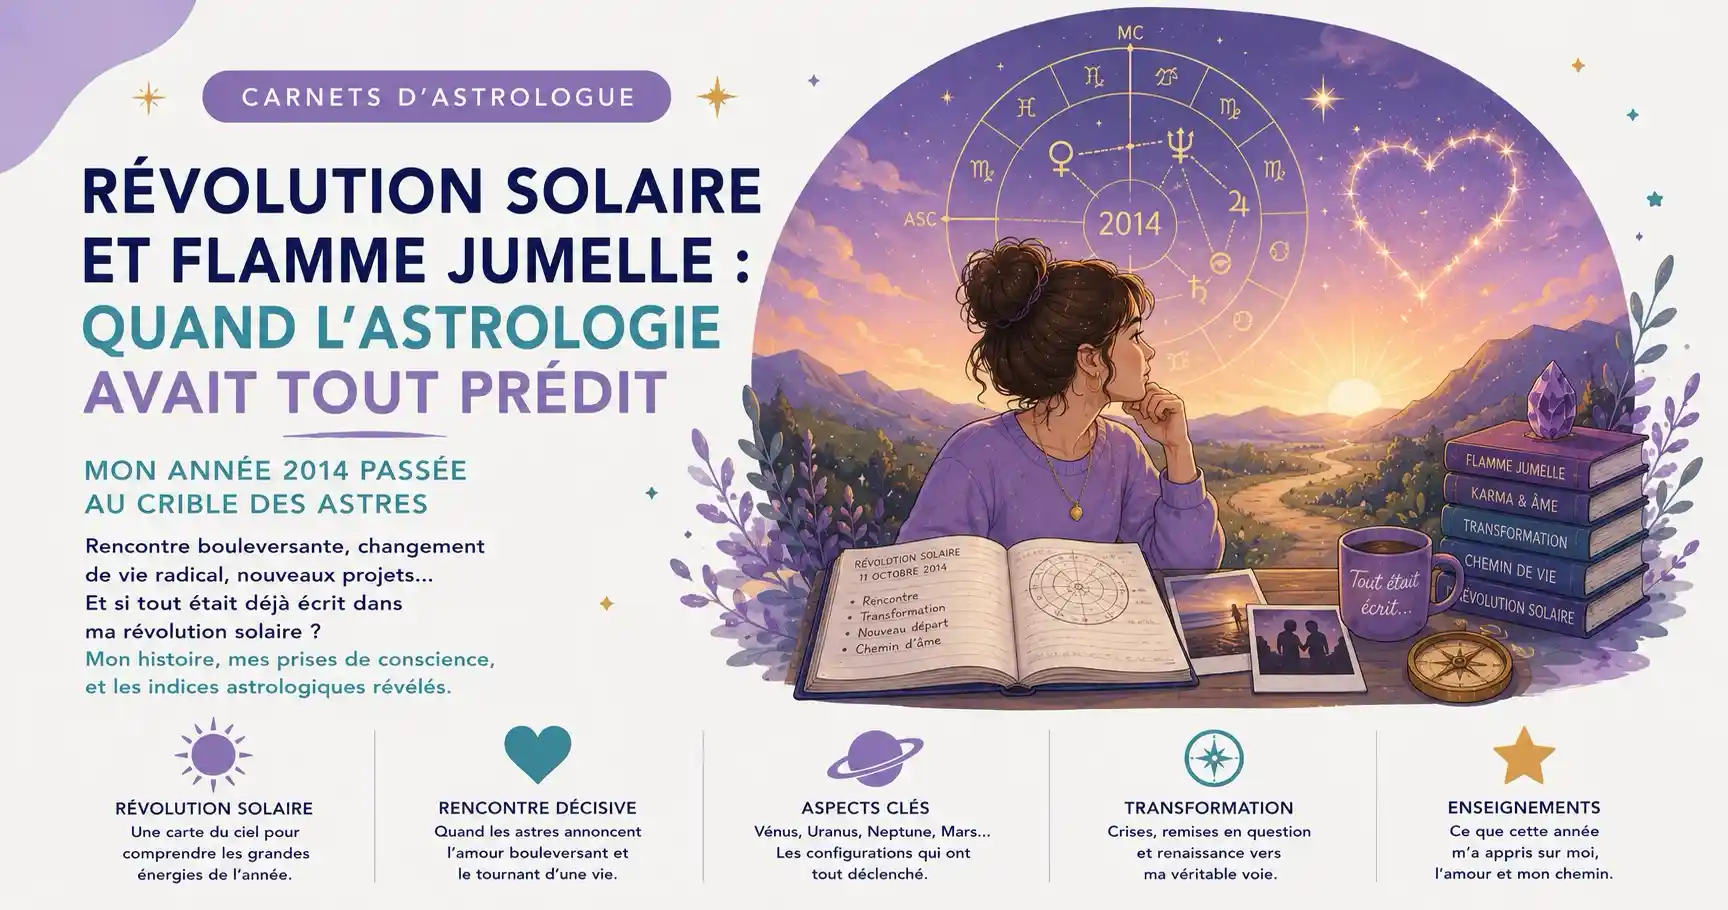
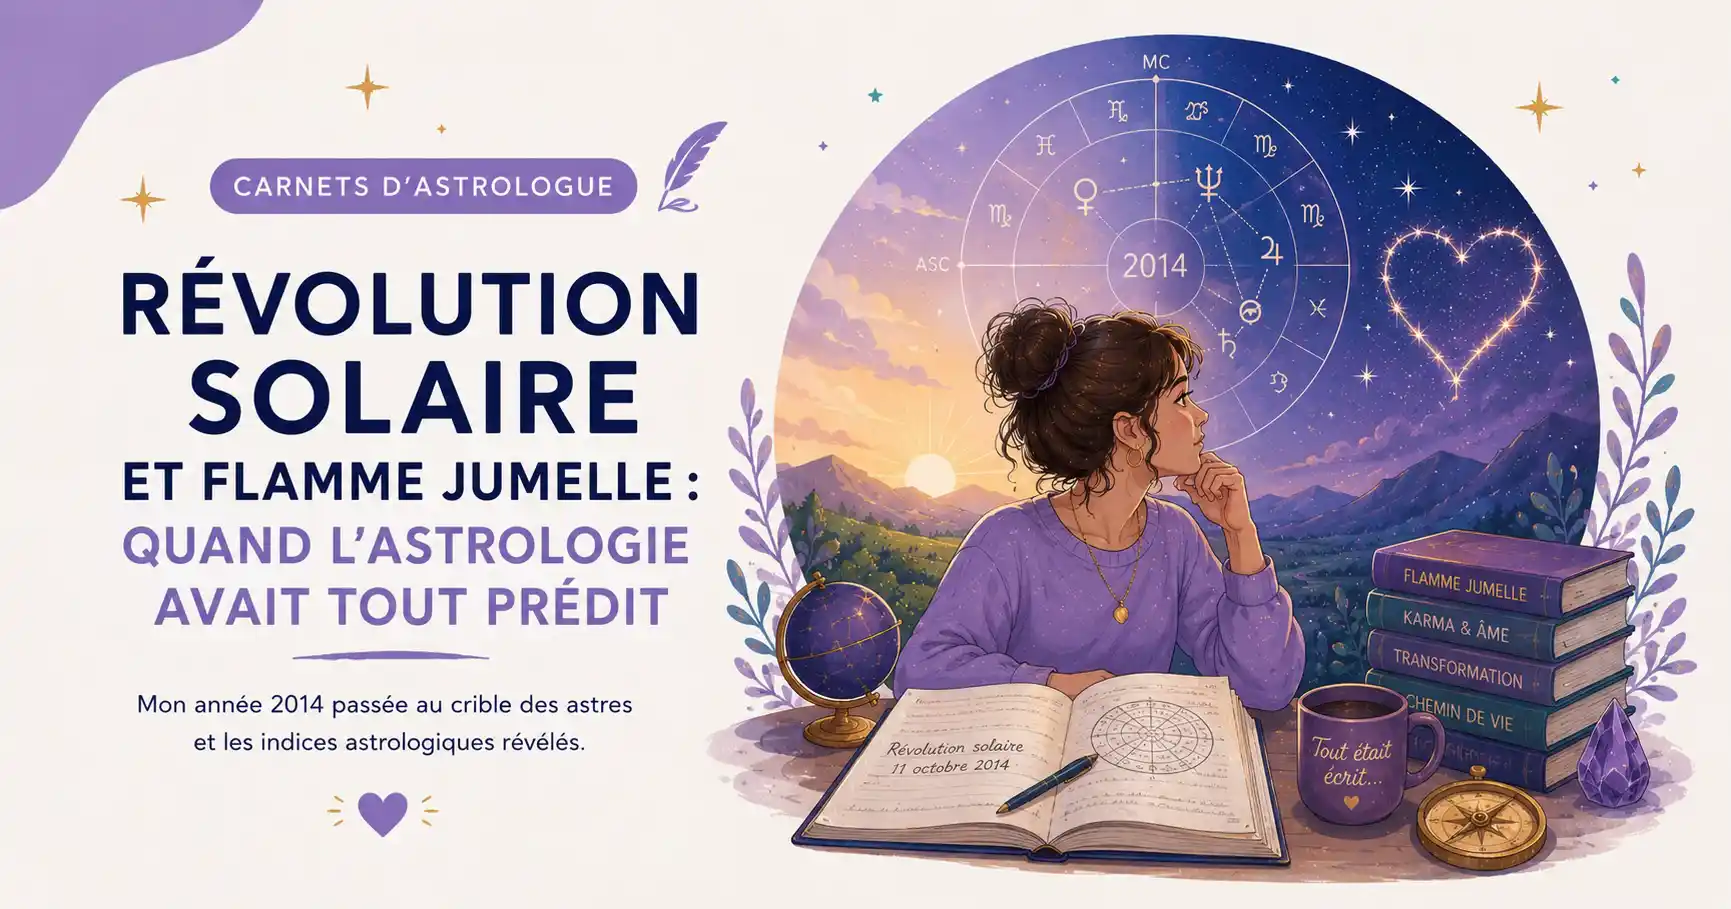
update

diff --git a/templates/blog/index.html b/templates/blog/index.html
@@ -333,12 +333,13 @@
     <!-- Filtres -->
     <div class="filters" id="filters">
         <button class="filter-btn active" data-cat="all">Tous les articles</button>
+        <button class="filter-btn" data-cat="bases">Les Bases ✍🏼</button>
         <button class="filter-btn" data-cat="signe">Signes ♈</button>
         <button class="filter-btn" data-cat="planete">Planètes ☽</button>
         <button class="filter-btn" data-cat="maison">Maisons 🏠</button>
         <button class="filter-btn" data-cat="karma">Karma ☊</button>
         <button class="filter-btn" data-cat="astropapote">Astropapote ✨</button>
-        <button class="filter-btn" data-cat="carnets">Carnets d'Astrologue ✨</button>
+        <button class="filter-btn" data-cat="carnets">Carnets d'Astrologue 📖</button>
     </div>
 
     <!-- Grille -->

diff --git a/routes/blog.py b/routes/blog.py
@@ -7,6 +7,7 @@ import yaml
 blog_bp = Blueprint("blog", __name__)
 
 CATEGORIES_MAP = {
+    "Les Bases": "base",
     "Signes astrologiques": "signe",
     "Planètes": "planete",
     "Maisons": "maison",

diff --git a/data/articles/monter-son-theme-a-la-main.md b/data/articles/monter-son-theme-a-la-main.md
@@ -1,0 +1,110 @@
+---
+title: "Calculer son thème astral à la main : le guide complet pas à pas"
+slug: "calculer-theme-astral-a-la-main"
+description: "Apprends à calculer ton thème astral à la main grâce à ce guide complet. Longitude, latitude, temps sidéral, table des maisons, éphémérides… découvre comment les astrologues construisaient un thème avant les logiciels."
+date: "2026-06-29"
+category: "Les Bases"
+image: "/static/blog/images/calculer-theme-astral-main.webp"
+image_alt: "Calcul manuel d'un thème astral avec table des maisons, éphémérides et cercle astrologique"
+---
+
+# Calculer son thème astral à la main : le guide (un peu old school, beaucoup passionnant)
+
+**Méta-description :** Comment calculer son thème astral à la main, étape par étape : longitude, latitude, temps sidéral, table des maisons et éphémérides. Le tout avec un compas et beaucoup de bonne volonté.
+
+C'est parti pour parler des Maisons Astrologiques.
+
+Déjà, d'où viennent ces maisons ? Qui les a construites ?! Quels sont les matériaux utilisés ?
+
+## Ce qu'il faut pour calculer son thème astral à la main
+
+Pour déterminer les maisons astrologiques, il nous faut connaître :
+
+- La longitude et la latitude du lieu de naissance
+- L'heure sidérale de cette naissance
+
+Ce qui va nous permettre de connaître la position de l'Ascendant — départ de tout. C'est ainsi qu'on va pouvoir construire notre petit lotissement ! Dans tout plan, il nous faut savoir où poser la première pierre. Eh eh.
+
+Tous les points de départ se font, en Astrologie, sur le moment où le Soleil franchit la ligne d'équateur pour pénétrer dans notre hémisphère. Ce franchissement se fait sur le point de rencontre de la courbe écliptique solaire et de l'équateur terrestre.
+
+---
+
+## Étape 1 — Trouver la longitude et la latitude du lieu de naissance
+
+C'est pour ça qu'on demande la ville pour définir ces données.
+
+Bon, je me sers tout de même d'Internet pour avoir mes infos. Donc latitude et longitude de Chalon-sur-Saône, là où je suis née :
+
+- **Latitude :** 46.780764
+- **Longitude :** 4.853947
+
+Vous pouvez trouver les coordonnées de votre ville de naissance facilement via Google Maps ou n'importe quel site de géolocalisation.
+
+---
+
+## Étape 2 — Calculer l'heure sidérale de naissance
+
+Puis l'heure sidérale de ma naissance : 6h40 à la latitude ci-dessus.
+
+Le temps sidéral, c'est l'angle horaire entre le méridien sud et le point vernal — c'est plus une position angulaire qu'un « temps ». C'est l'ascension droite des objets qui passent au méridien à un instant donné. La valeur du temps sidéral dépend donc du lieu et de la date d'observation.
+
+Je ne suis pas temps-sidéralosophe, j'ai cherché à faire mon thème à la main, mais pas à comprendre en détail comment convertir mon heure en sidéral. Pour ça, vous pouvez utiliser ces ressources :
+
+- Pour comprendre le calcul : [astrochinon.fr](https://www.astrochinon.fr/index.php/documents/nos-dossiers/95-le-temps-sideral-de-greenwich)
+- Pour calculer directement votre heure sidérale : [damedetrefle.com](https://www.damedetrefle.com/astrologie-calculer-temps-universel-heure-siderale.html)
+
+Mon temps universel est 5h40, mon heure sidérale est à 07h19 (je prends 7h18 entre Lyon et Dijon).
+
+---
+
+## Étape 3 — Utiliser la table des maisons
+
+J'ai la joie de vous annoncer qu'on peut commencer à monter son thème.
+
+Pour ça, vous aurez besoin d'un compas, d'un rapporteur de… Paris, mange ta soupe et vas au lit. Désolée, le passé remonte en même temps. Tout ça c'est loin.
+
+On va aller chercher la **Table des Maisons**, que vous pouvez trouver ici : [damedetrefle.com — table des maisons](https://www.damedetrefle.com/astrologie-table-des-maisons.html)
+
+La latitude Nord est bonne, je cherche donc 7h en heure sidérale, puis 7h18… et que vois-je ? Que je suis **BALANCE** ! Et j'ai le degré de chacune de mes maisons. N'est-ce merveilleux ?
+
+---
+
+## Étape 4 — Tracer le thème astral
+
+Je trace mon cercle. Sur le côté gauche, je mets un point à l'horizon et je marque mon Ascendant : Balance à 14 degrés. On ne va pas s'embêter avec le 38.
+
+À partir de là, on ressort ses talents d'enfant à l'école :
+
+1. On ajoute 16 degrés pour finir le signe de la Balance (30 degrés, comme chaque signe)
+2. On commence par tracer tous les signes
+3. Ensuite on trace à 11° du Scorpion la cuspide de la Maison II, la cuspide du 12° en Sagittaire, etc.
+
+---
+
+## Étape 5 — Placer les planètes avec les éphémérides
+
+Une fois le cercle tracé, on peut passer aux placements des planètes dans les signes. Pour ça, on va voir les éphémérides du jour ici : [damedetrefle.com — éphémérides](https://www.damedetrefle.com/astrologie-ephemeride.html)
+
+On choisit son année, son mois, son jour, son heure (en GMT ou sidéral) — et on peut désormais placer ses petites planètes sur le thème.
+
+---
+
+## Pourquoi calculer son thème astral à la main si Astrothème existe ?
+
+On est d'accord que c'est tout aussi simple d'aller sur [astrotheme.fr](https://www.astrotheme.fr), de rentrer ses données et de cliquer pour avoir directement son thème.
+
+Mais je trouve ça « important » — si je puis dire ça comme ça — de savoir comment on le monte à la base, sur quoi on se base. Comprendre les rouages, c'est comprendre l'outil. Et comprendre l'outil, c'est comprendre l'astrologie un peu différemment.
+
+Voilà mes amis, n'hésitez pas à me partager si vous avez réalisé votre thème !
+
+Vous avez toute l'explication en détail dans un tuto astro disponible sur ma chaîne YouTube pour encore plus d'explications !
+
+<iframe width="560" height="315" src="https://www.youtube.com/embed/fa4_6ZfWXWk" allowfullscreen></iframe>
+
+---
+
+*Envie d'aller plus loin et de décrypter ce que racontent vos maisons ? Rendez-vous sur [Les Fous d'Astro](https://lesfousdastro.fr).*
+
+
+Article rédigé par Cécile CL
+Astrologue et fondatrice des Fous d'Astro
